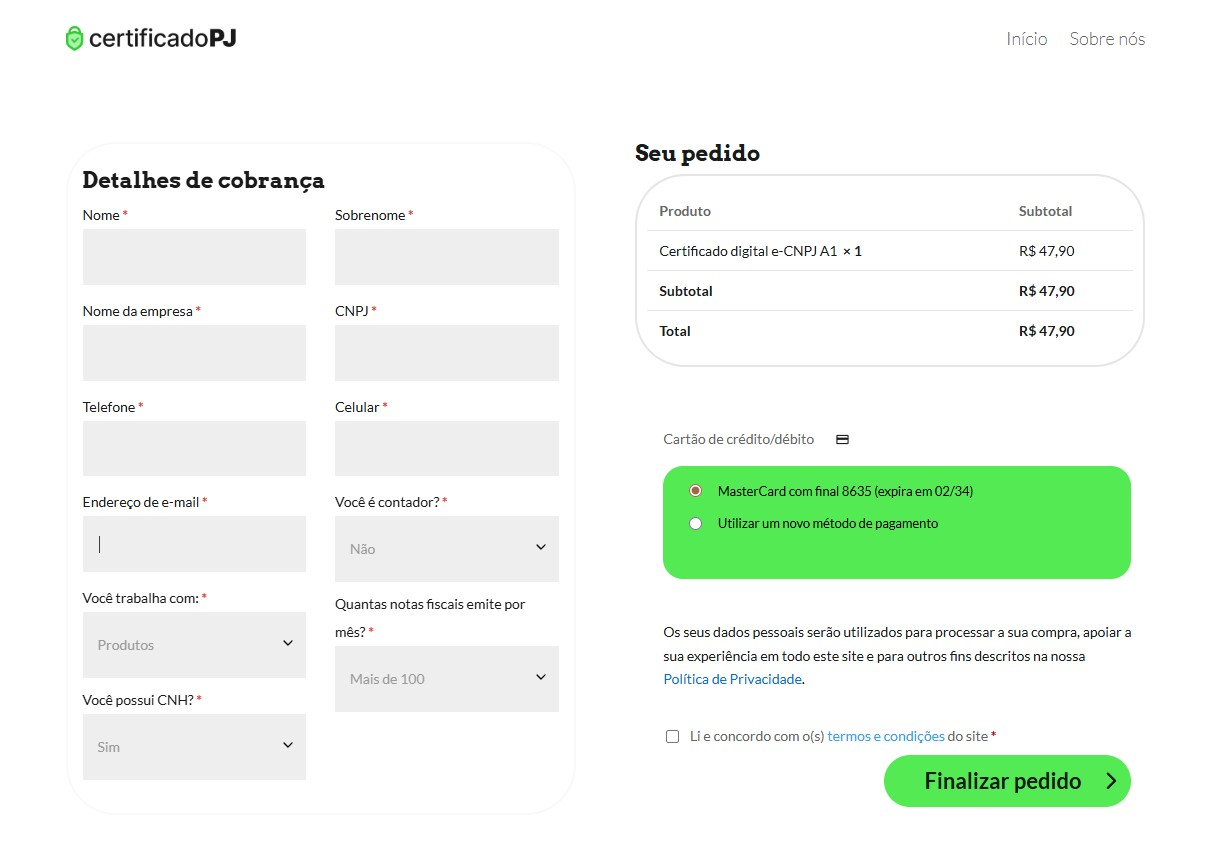
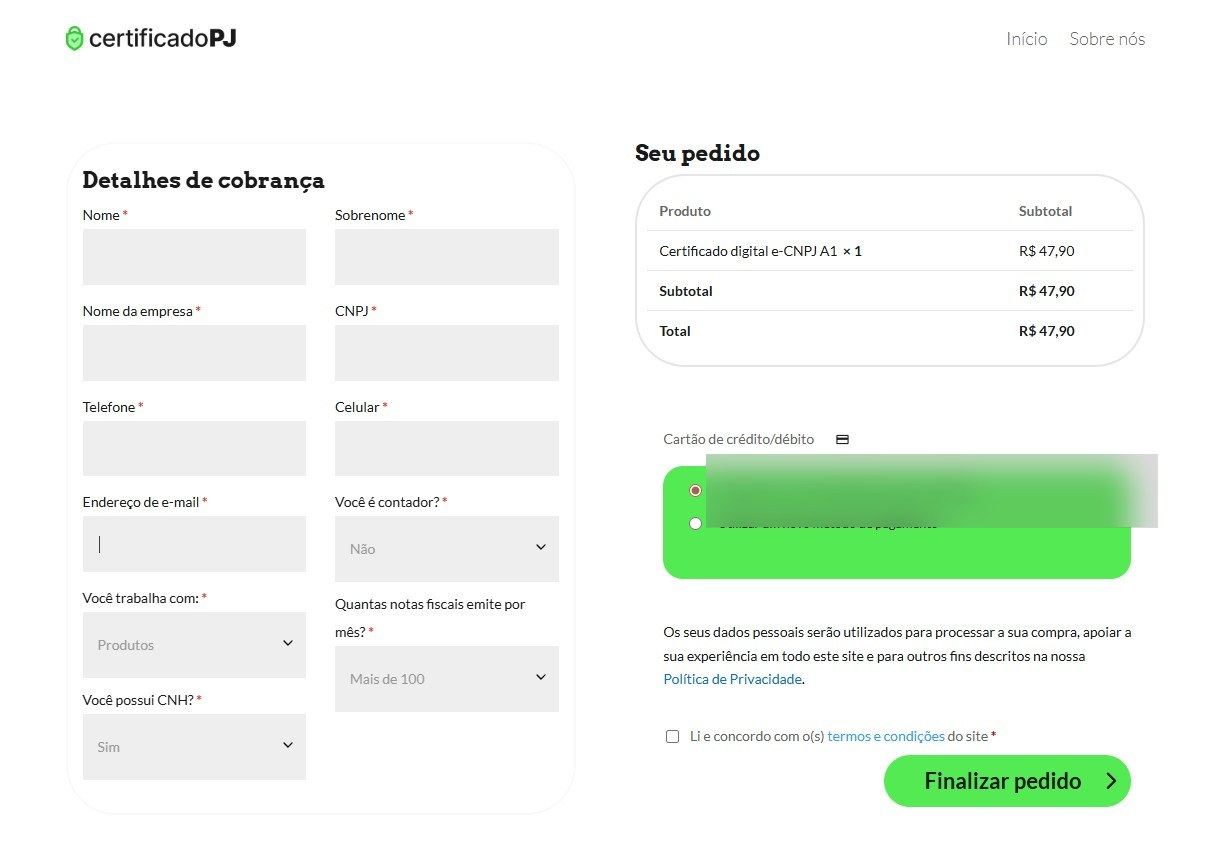
fix: tira números não medidos e dados reais de clientes do portfólio
CRM com os fatos confirmados (900+ projetos cadastrados, criado do zero,
coordenação de estagiários); Colar como beta na Vercel; métricas sem fonte
removidas de Gestão de Layouts, Certificado PJ e Expert; nomes de clientes,
números internos e o cartão salvo borrados nos prints.

Changed region(s): [[0.5616, 0.5158, 0.9672, 0.6371]]

diff --git a/scripts/borrar_regioes.py b/scripts/borrar_regioes.py
@@ -1,0 +1,46 @@
+"""
+Borra regioes de prints que mostram dados reais (nomes de clientes, numeros de
+negocio, dados de pagamento), mantendo a tela reconhecivel.
+
+Uso: python scripts/borrar_regioes.py
+As regioes sao fracoes (x0, y0, x1, y1) da largura e da altura de cada imagem.
+"""
+from pathlib import Path
+
+from PIL import Image, ImageDraw, ImageFilter
+
+RAIZ = Path(__file__).resolve().parent.parent
+REGIOES = {
+    # Visao Geral: os seis numeros dos cartoes
+    "public/projects/crmontesite/crm1.jpg": [
+        (0.32, 0.71, 0.40, 0.80), (0.545, 0.71, 0.615, 0.80), (0.745, 0.71, 0.83, 0.80),
+        (0.32, 0.87, 0.40, 0.96), (0.545, 0.87, 0.615, 0.96), (0.745, 0.87, 0.83, 0.96),
+    ],
+    # Kanban: todo o conteudo dos cartoes (clientes, responsaveis, dominios)
+    "public/projects/crmontesite/crm2.jpg": [(0.0, 0.20, 1.0, 1.0)],
+    # Leads: numeros do topo, total encontrado e o corpo da tabela
+    "public/projects/crmontesite/crm3.jpg": [(0.0, 0.165, 1.0, 0.26), (0.0, 0.425, 0.32, 0.475), (0.0, 0.50, 1.0, 1.0)],
+    # Layouts: a coluna Projeto (nomes de clientes)
+    "public/projects/gestaolayoutssheets/layout1.jpg": [(0.10, 0.47, 0.26, 1.0)],
+    # Checkout: a linha do cartao salvo
+    "public/projects/certificadopj/certificado2.jpg": [(0.58, 0.53, 0.95, 0.615)],
+}
+
+
+def borrar(caminho: Path, regioes) -> None:
+    imagem = Image.open(caminho).convert("RGB")
+    largura, altura = imagem.size
+    for x0, y0, x1, y1 in regioes:
+        caixa = (int(x0 * largura), int(y0 * altura), int(x1 * largura), int(y1 * altura))
+        trecho = imagem.crop(caixa).filter(ImageFilter.GaussianBlur(radius=14))
+        imagem.paste(trecho, caixa[:2])
+        camada = Image.new("RGBA", imagem.size, (0, 0, 0, 0))
+        ImageDraw.Draw(camada).rectangle(caixa, fill=(120, 120, 120, 70))
+        imagem = Image.alpha_composite(imagem.convert("RGBA"), camada).convert("RGB")
+    imagem.save(caminho, quality=88)
+
+
+if __name__ == "__main__":
+    for relativo, regioes in REGIOES.items():
+        borrar(RAIZ / relativo, regioes)
+        print("borrado:", relativo)

diff --git a/src/content/projects/colar.md b/src/content/projects/colar.md
@@ -5,25 +5,22 @@ category: Sistema Web / Gestão Doméstica
 description: Aplicação web colaborativa para gerenciar finanças, tarefas e inventário de forma compartilhada entre casais, colegas de quarto e amigos que dividem moradia.
 color: "#f6d43b"
 technologies: ["Python", "Flask", "JavaScript", "Tailwind CSS", "Jinja2", "Supabase", "Chart.js", "HTML5"]
-link: null
+link: "https://colarapp.vercel.app"
 order: 5
 images: ["/projects/colar/colar1-login.png", "/projects/colar/colar2-dashboard.png", "/projects/colar/colar3-finances.png", "/projects/colar/colar4-tasks.png", "/projects/colar/colar5-members.png", "/projects/colar/colar6-transaction.png"]
 metrics:
-  - value: "Em Desenvolvimento"
-    label: "Status do Projeto"
+  - value: "Beta"
+    label: "Já dá para usar, na Vercel"
     color: blue
   - value: "4"
-    label: "Módulos Principais"
+    label: "Módulos principais"
     color: green
-  - value: "100%"
-    label: "Dark Mode Premium"
-    color: white
 areas: [dev]
 ---
 
 ## Visão Geral
 
-O **Colar** é uma aplicação web moderna desenvolvida com Flask e Supabase para ajudar famílias, casais e grupos de amigos a organizarem suas finanças, tarefas e inventário de forma colaborativa e transparente. Com uma interface elegante em dark mode e design totalmente responsivo, o Colar oferece uma experiência intuitiva e premium.
+O **Colar** é uma aplicação web moderna desenvolvida com Flask e Supabase para ajudar famílias, casais e grupos de amigos a organizarem suas finanças, tarefas e inventário de forma colaborativa e transparente. Com uma interface escura e responsiva, o Colar já pode ser usado em versão beta em [colarapp.vercel.app](https://colarapp.vercel.app). Ainda não tem domínio próprio nem monetização.
 
 ### 🎯 Propósito
 
@@ -72,7 +69,7 @@ Facilitar a organização e divisão de despesas domésticas entre pessoas que c
 
 **Estilo & Design:**
 - **Tailwind CSS (CDN)** — Framework CSS utilitário com suporte nativo a dark mode
-- **Tailwind Dark Mode** — Interface escura premium com gradientes personalizados
+- **Tailwind Dark Mode** — Interface escura com gradientes personalizados
 
 **Visualização de Dados:**
 - **Chart.js** — Gráficos interativos (linha, rosca, barra)
@@ -178,7 +175,7 @@ Cada grupo é isolado e apenas seus membros têm acesso aos dados.
 
 ### Design System
 
-- **Tema:** Dark Mode premium com gradientes personalizados
+- **Tema:** modo escuro com gradientes personalizados
 - **Cores Principais:** Azul, verde, amarelo, com acentos dourados
 - **Tipografia:** Outfit para títulos, Inter para corpo
 - **Ícones:** Font Awesome + Material Icons para consistência

diff --git a/src/content/projects/crmontesite.md b/src/content/projects/crmontesite.md
@@ -9,14 +9,14 @@ link: null
 order: 2
 images: ["/projects/crmontesite/crm1.jpg", "/projects/crmontesite/crm2.jpg", "/projects/crmontesite/crm3.jpg"]
 metrics:
-  - value: "500+"
-    label: "Clientes Ativos"
+  - value: "900+"
+    label: "Projetos cadastrados no CRM"
     color: blue
-  - value: "89%"
-    label: "Aumento em Produtividade"
+  - value: "Do zero"
+    label: "Criado e mantido por mim"
     color: green
-  - value: "99.9%"
-    label: "Uptime de Sincronização"
+  - value: "Time"
+    label: "Coordenação de estagiários"
     color: white
 areas: [dev]
 ---
@@ -24,6 +24,10 @@ areas: [dev]
 ## Visão Geral
 
 O **CRM Monte Site** é um sistema completo de gestão de relacionamento com clientes (CRM) desenvolvido com React, TypeScript e Supabase. Centraliza a gestão de projetos, leads, vendas e relacionamento com clientes em uma única plataforma intuitiva e poderosa.
+
+A frente de venda de sites institucionais não existia na empresa: eu a criei do zero. Desenvolvi o CRM, produzia os sites, registrava os domínios e cuidava da hospedagem. Com o crescimento, estagiários entraram no projeto sob a minha responsabilidade e passei a coordenar esse time e a desenvolver outras ferramentas. Hoje o CRM tem **mais de 900 projetos cadastrados**.
+
+> As imagens desta página têm nomes e números ocultos para proteger os dados dos clientes.
 
 ### 🎯 Propósito
 
@@ -300,19 +304,12 @@ sites (1) ──→ (N) personalizations
 
 ## Resultados & Impacto
 
-### Métricas de Sucesso
+### O que o projeto entregou
 
-- **Adoção:** Sistema em produção gerenciando múltiplos projetos simultâneos
-- **Performance:** Dashboard carrega em < 2s, operações CRUD em < 1s
-- **Disponibilidade:** 99.9% uptime (SLA Supabase)
-- **Escalabilidade:** Suporta 100+ usuários simultâneos sem degradação
-
-### Casos de Uso Reais
-
-- Agência com 500+ projetos em andamento gerenciados simultaneamente
-- Equipe de vendas com conversão aumentada em X% via automação
-- Redução de tempo de gestão em Y% com dashboard centralizado
-- Integrações funcionando sem necessidade de intervenção manual
+- **Em produção:** mais de 900 projetos de sites cadastrados no CRM.
+- **Do zero:** a frente de sites institucionais nasceu com o CRM; antes ela não existia na empresa.
+- **Ponta a ponta:** do pedido do cliente ao site no ar, passando por domínio, DNS e hospedagem.
+- **Time:** o projeto cresceu e ganhou estagiários, que passei a coordenar.
 
 ### Aprendizados Principais
 

diff --git a/src/content/projects/certificadopj.md b/src/content/projects/certificadopj.md
@@ -5,8 +5,8 @@ category: E-commerce / Lead Generation / Automação
 description: Plataforma de venda de certificados digitais A1 integrada com Stripe, webhook automático com Make.com, RD Station e Exact Spotter para qualificação de leads em tempo real.
 color: "#10b981"
 technologies: ["WordPress", "Divi Builder", "Elementor", "Stripe", "Make.com", "RD Station", "Exact Spotter", "Google Sheets", "Webhooks"]
-link: https://certificadopj.com.br
-order: 6
+link: null
+order: 7
 images: ["/projects/certificadopj/certificado1.jpg", "/projects/certificadopj/certificado2.jpg", "/projects/certificadopj/make.png"]
 areas: [dev]
 ---
@@ -240,25 +240,23 @@ Google Sheets → Relatórios → KPIs → Otimização
 
 ## Resultados & Impacto
 
-### Métricas de Sucesso
+> O projeto foi **descontinuado**, mas foi uma entrega completa de ponta a ponta: do site ao checkout funcionando e às integrações com os CRMs.
 
-- **Automação:** 100% dos pedidos processados automaticamente (zero trabalho manual)
-- **Qualificação:** Dados estruturados identificam prospects de alto potencial
-- **Velocidade:** Contato SDR em < 5 minutos após compra
-- **Sincronização:** Dados disponíveis em RD Station em tempo real
-- **Histórico:** Planilha mantém auditoria completa de todas as transações
+### O que foi entregue
+
+- **Automação:** cada pedido pago disparava o webhook que cadastrava o cliente nos CRMs, sem digitação.
+- **Qualificação:** campos do checkout organizavam os leads para o time comercial.
+- **Sincronização:** dados enviados ao RD Station e ao Exact Spotter pelo Make.com.
+- **Histórico:** planilha com o registro das transações.
 
 ### Benefícios Realizados
 
 1. **Eficiência Operacional:**
-   - Eliminação de dados manuais (100% automático)
-   - Redução de tempo administrativo em ~10h/semana
-   - Zero erros de digitação ou dados faltando
+   - Fim da digitação manual dos pedidos nos CRMs
 
 2. **Qualificação de Leads:**
    - Campos personalizados permitem segmentação (tamanho empresa, setor)
    - SDRs recebem leads pré-qualificados com contexto completo
-   - Taxa de resposta aumentada (leads já validados)
 
 3. **Integração CRM-to-SDR:**
    - RD Station centraliza todos os contatos

diff --git a/src/content/projects/gestaolayoutssheets.md b/src/content/projects/gestaolayoutssheets.md
@@ -227,19 +227,14 @@ google_sheets_connections (1) ──→ (N) imports
 
 ## Resultados & Impacto
 
-### Métricas de Sucesso
+### O que o sistema faz
 
-- Sistema importando 500+ layouts por dia
-- Redução de 80% no tempo de gestão manual
-- Taxa de sucesso de importação > 95%
-- 10+ usuários ativos diários
-- Dashboard respondendo em < 2s
+- Importa layouts e pedidos de importação direto das planilhas do Google Sheets.
+- Valida os dados na entrada e mostra o que ficou pendente.
+- Acompanha cada layout do recebimento à entrega, com situação e datas.
+- Mostra um painel de indicadores por período (semana, mês, ano) para o time de produção.
 
-### Casos de Uso em Produção
-
-- Agência de design importando layouts semanalmente de planilhas centralizadas
-- Equipe de produção validando 1000+ itens automaticamente
-- Relatórios gerados automaticamente e enviados via email
+> As imagens desta página têm nomes de projetos de clientes ocultos.
 
 ### Aprendizados Principais
 

diff --git a/src/content/projects/expert-egestor.md b/src/content/projects/expert-egestor.md
@@ -231,7 +231,7 @@ Exam (aprovado) ──→ (1) Certificate
 
 ### 🚀 Em Produção
 
-A plataforma está **totalmente funcional e em operação** em `https://expert.egestor.com.br/`, com empresas usando ativamente para treinamento de funcionários e clientes.
+A plataforma está **totalmente funcional e em operação** em `https://expert.egestor.com.br/`, usada para treinar funcionários e clientes.
 
 ---
 

diff --git a/src/content/projects/altloot.md b/src/content/projects/altloot.md
@@ -6,7 +6,7 @@ description: RPG Idle/Clicker com estética Office-Stealth
 color: "#291F3E"
 technologies: ["Vite", "React", "Tailwind CSS", "Framer Motion", "Supabase", "PostgreSQL"]
 link: null
-order: 7
+order: 6
 images: ["/projects/altloot/capa_altloot.png", "/projects/altloot/altloot1.jpg", "/projects/altloot/altloot2.jpg", "/projects/altloot/altloot3.jpg"]
 areas: [dev]
 ---
